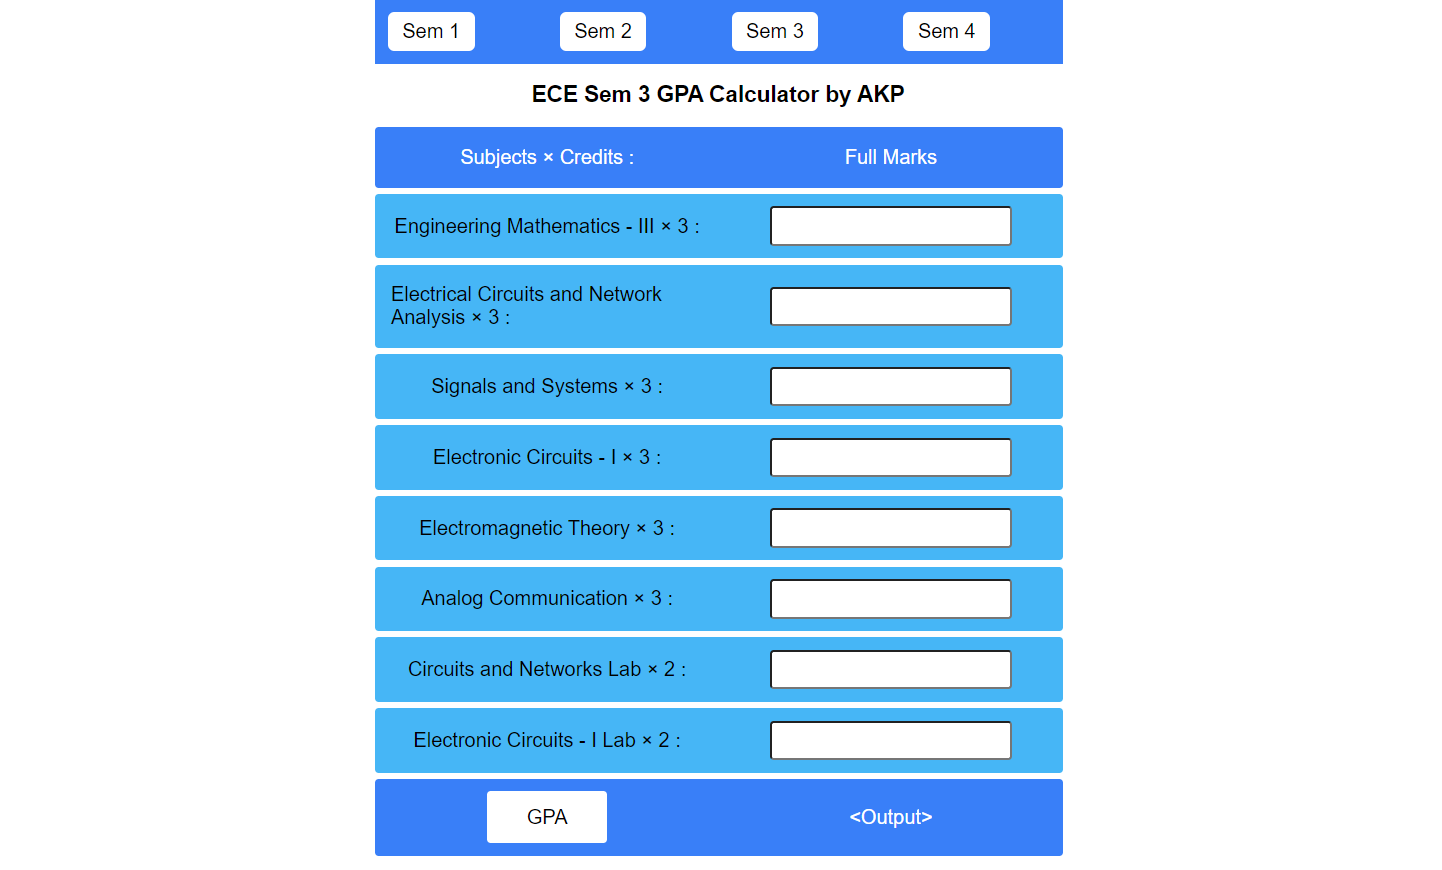
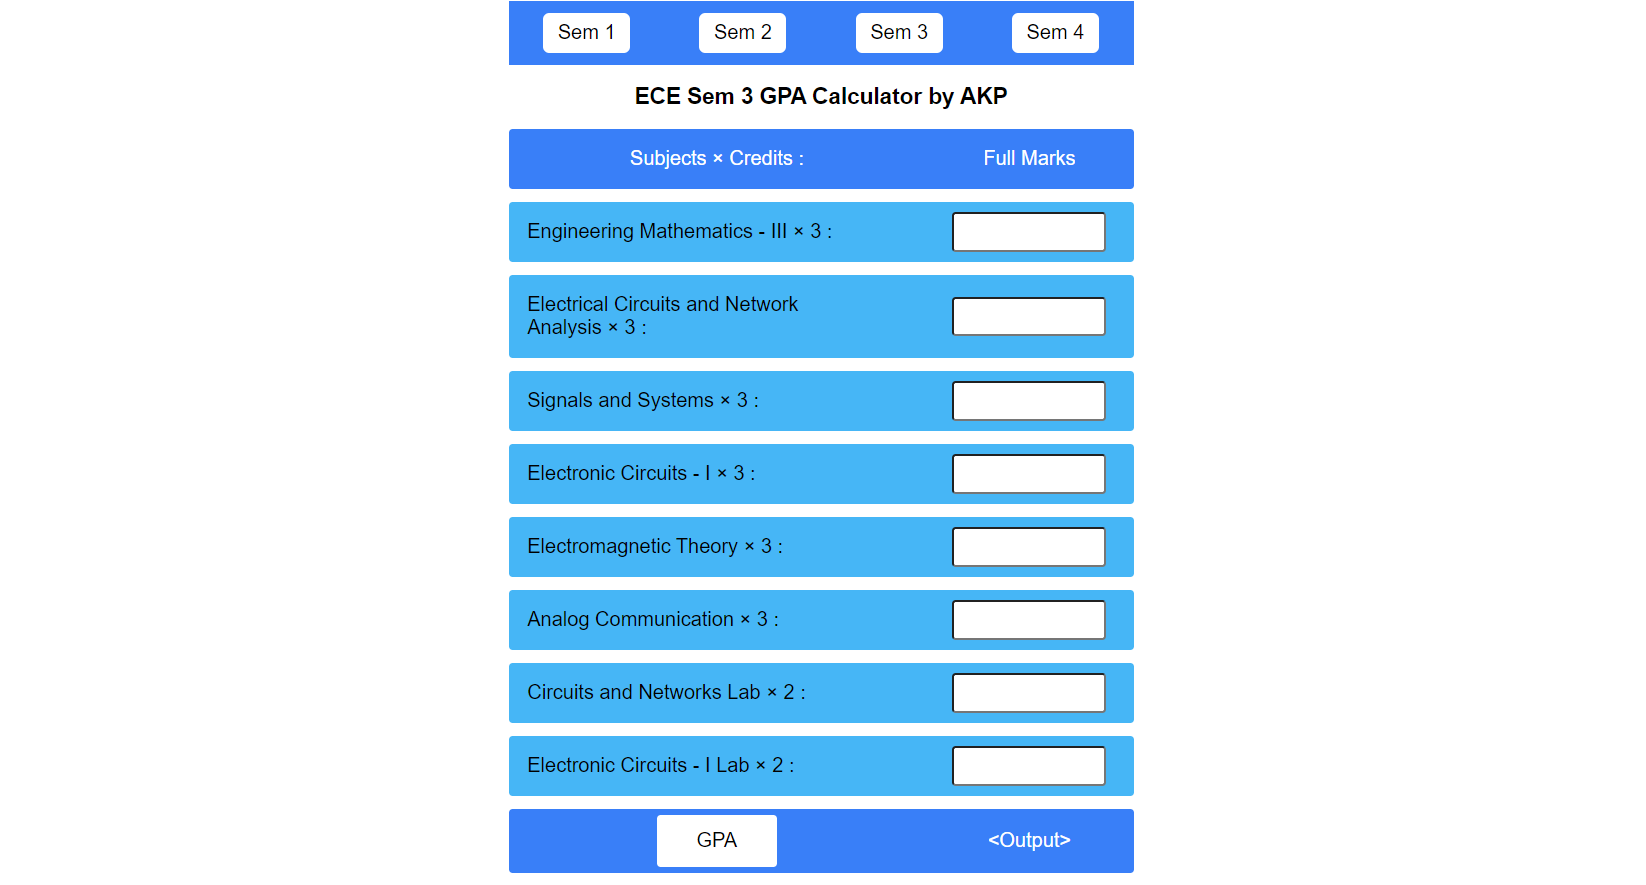
Updated

Changed region(s): [[0.2497, 0.1241, 0.749, 0.9931], [0.2497, 0.0, 0.749, 0.0931], [0.3745, 0.0931, 0.6241, 0.1241]]

diff --git a/ECE Sem Result Calculator/style.css b/ECE Sem Result Calculator/style.css
@@ -16,7 +16,7 @@ nav {
     display: grid;
     grid-template-columns: 1fr 1fr 1fr 1fr;
     max-width: 500px;
-    margin: 10px auto;
+    margin: 2px auto;
     background: var(--col2);
     justify-content: space-evenly;
     justify-items: center;
@@ -70,14 +70,19 @@ button {
 }
 
 .title {
-    max-width: 300px;
+    max-width: 500px;
     margin: 10px auto;
     padding: 5px 10px;
     font-weight: bolder;
     font-family: sans-serif;
     font-size: 18px;
+    text-align: center;
 }
 
+.info{
+    text-align: center;
+    margin: -10px auto -5px auto;
+}
 
 .notSub {
     background-color: var(--col2);

diff --git a/ECE Sem Result Calculator/index2.html b/ECE Sem Result Calculator/index2.html
@@ -17,6 +17,8 @@
     </nav>
     <div class="container">
         <div class="title">ECE Sem 2 GPA Calculator by AKP</div>
+        
+        <div class="info">only valid for SIST (2022-2026)</div>
         <div class="subject notSub">
             <label>Subjects × Credits : </label>
             <label>Full Marks</label>

diff --git a/ECE Sem Result Calculator/index3.html b/ECE Sem Result Calculator/index3.html
@@ -17,6 +17,8 @@
     </nav>
     <div class="container">
         <div class="title">ECE Sem 3 GPA Calculator by AKP</div>
+        
+        <div class="info">only valid for SIST (2022-2026)</div>
         <div class="subject notSub">
             <label>Subjects × Credits : </label>
             <label>Full Marks</label>

diff --git a/ECE Sem Result Calculator/index1.html b/ECE Sem Result Calculator/index1.html
@@ -17,6 +17,7 @@
     </nav>
     <div class="container">
         <div class="title">ECE Sem 1 GPA Calculator by AKP</div>
+        <div class="info">only valid for SIST (2022-2026)</div>
         <div class="subject notSub">
             <label>Subjects × Credits : </label>
             <label>Full Marks</label>

diff --git a/ECE Sem Result Calculator/index4.html b/ECE Sem Result Calculator/index4.html
@@ -17,6 +17,7 @@
     </nav>
     <div class="container">
         <div class="title">ECE Sem 3 GPA Calculator by AKP</div>
+        <div class="info">only valid for SIST (2022-2026)</div>
         <div class="subject notSub">
             <label>Subjects × Credits : </label>
             <label>Full Marks</label>
